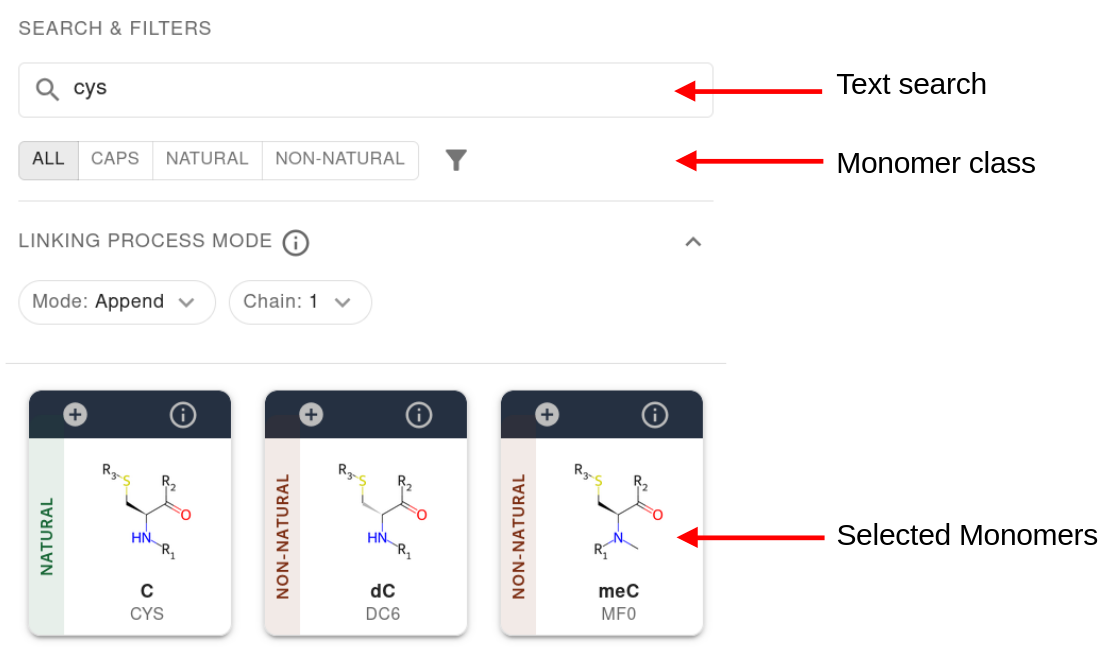
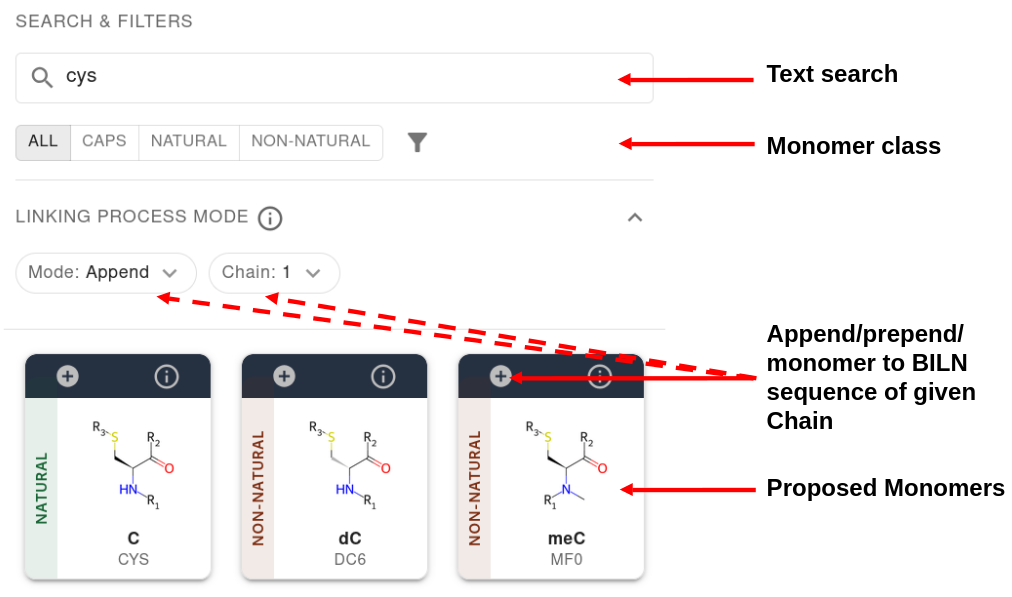
doc up to linking

diff --git a/doc/pepedit.html b/doc/pepedit.html
@@ -19,21 +19,24 @@
   
   <h4> The monomer library. </h4>
   
-  The library contains monomers that can be combined to build a peptide. In PEP-EDIT, the monomers are classified in different categories:
+  The library contains monomers that can be combined to build a peptide. In PEP-EDIT, the monomers are categorized using different categories:
   <ul>
     <li> Natural amino acids that correspond to the usual 20 L-amino acids.  </li>
     <li> Non natural amino acids that encompass the D-amino acids and unusual amino acids such as the sarcosin, or the alpha-amino iso butyric acid, but also N-methylated amino acids and exotic amino acids such as the N-epsilon-tert-Boc-L-lysine, and many others.  </li>
     <li> Caps: these correspond to special groups that can only be added as extremities of the main chain or side chains (see below). </li>
   </ul>
-  
+
   <ul>
-    <li> Each monomer in the library has a label that can be used to combine it with other. For instance P for proline, am for amide, DOU for the D-ornithine, etc.</li>
+    <li> Each monomer in the library has a BILN label that can be used to combine it with other as a BILN sequence. For instance P for proline, am for amide, DOU for the D-ornithine, etc.</li>
     <li> Each monomer has identified connecting groups or R-groups. By default all amino acids have two R-groups, the first (R1) consisting of the N-terminal backbone nitrogen and the second (R2) the C-terminal carbonyl carbon. Extras connecting groups (R3, R4, ...) consist for instance of the sulfur atoms of the cysteine side chains that can form disulfide bonds. In practice, the number of R-groups is currently limited to 4. </li>
     <li> Caps are monomers that have only one R-group, and can only positionned at extremities. </li>
   </ul>
-  
+
+
+  <img src="images/Monomer5.png" alt="" width="20%" height="20%" id="hp"/>
+  Of note: in PEP-EDIT, each monomer has different labels: its full name, its BILN name (the only valid in a BILN sequence) and a 3 letter code for the 3D representation in the PDB format.
   Currently, PEP-EDIT comes with a library of 20 standard amino acids, 255 non standard amino acids and 53 caps. <em>Furthermore, it is possible to extend the library on-line (see below).</em>
-  
+
   <h4>Complex peptides as a monomer assembly:</h4>
   
   <ul>
@@ -83,12 +86,11 @@
   
   <h5> Editing a BILN sequence </h5>
   
-  <img src="images/MonomerSelection.png" alt="" width="30%" height="30%" id="hp"/>
   <p>
-    The main entry point to generate a peptide consists of the text field defining the BILN sequence (upper left of the interface). It can be filled manually entering a BILN sequence or by clicking the monomers of the library depicted on the right part of the interface. This library section comes with tools to search the monomers, depending on their class (CAPS, NATURAL or NON-NATURAL) or using a text search to identify relevant monomers. For instance, entering "cys" will filter the monomer library to present only monomers having the "cys" text in their names, resulting in presenting 9 monomers, including for instance the D-cysteine, the homocysteine or the selenocysteine.
+    The main entry point to generate a peptide consists of the text field defining the BILN sequence (upper left of the interface). It can be filled manually entering a BILN sequence or by clicking the monomers of the library depicted on the right part of the interface. This library section comes with tools to search the monomers, depending on their class (CAPS, NATURAL or NON-NATURAL) or using a text search to identify relevant monomers. For instance, entering "cys" will filter the monomer library to present only monomers having the "cys" text in their names, resulting in presenting 9 monomers, including for instance the D-cysteine, the homocysteine or the selenocysteine. 
   </p>
-  <img src="images/Monomer4.png" alt="" width="20%" height="20%" id="hp"/>
   
+  <img src="images/MonomerSelection.png" alt="" width="30%" height="30%" id="hp"/>
   <p>
     Once a monomer of interest identified, it is possible to directly use its BILN name in the BILN sequence text field or to add it to one sequence by clicking the "+" sign on the top left of the monomer. Depending on the "Mode" selected, the monomer will be added either at the end (Append), the beginning (Prepend) or will be used to start a new peptidic entity entitled New chain in PEP-EDIT. All these operations support an undo redo mechanism (icons on the top of the editor).
     
@@ -97,6 +99,7 @@
   Note that the definition of the BILN sequence is associated with the synchronous 2D and 3D depictions of the peptidic chains. In some cases, the generation of the 3D conformation can take some time. To keep the process as interactive as possible, it is possible to disable the automatic updating the 3D depiction.
   </p>
   <h5> Linking two chains </h5>
+  <img src="images/Linking-Unlinking.png" alt="" width="20%" height="20%" id="hp"/>
   
   It is possible to link monomers directly for the BILN text field, or graphically, clicking the "link" button. Once clicked on, the 2D depiction will show the groups that are available to generate a bond. In the example below, clicking the SH groups of two cysteines will result in the formation on a disulfide bond. It is possible to unlink two monomers clinkg the unlink button and double clicking the bond to disrupt. Note that this is only effective to unlink groups that do not correspond to amine bonds, i.e. involve R-groups other than 1 and 2. Also note that the linking mechanism comes with no control about if the link creation is meaningful.
   
